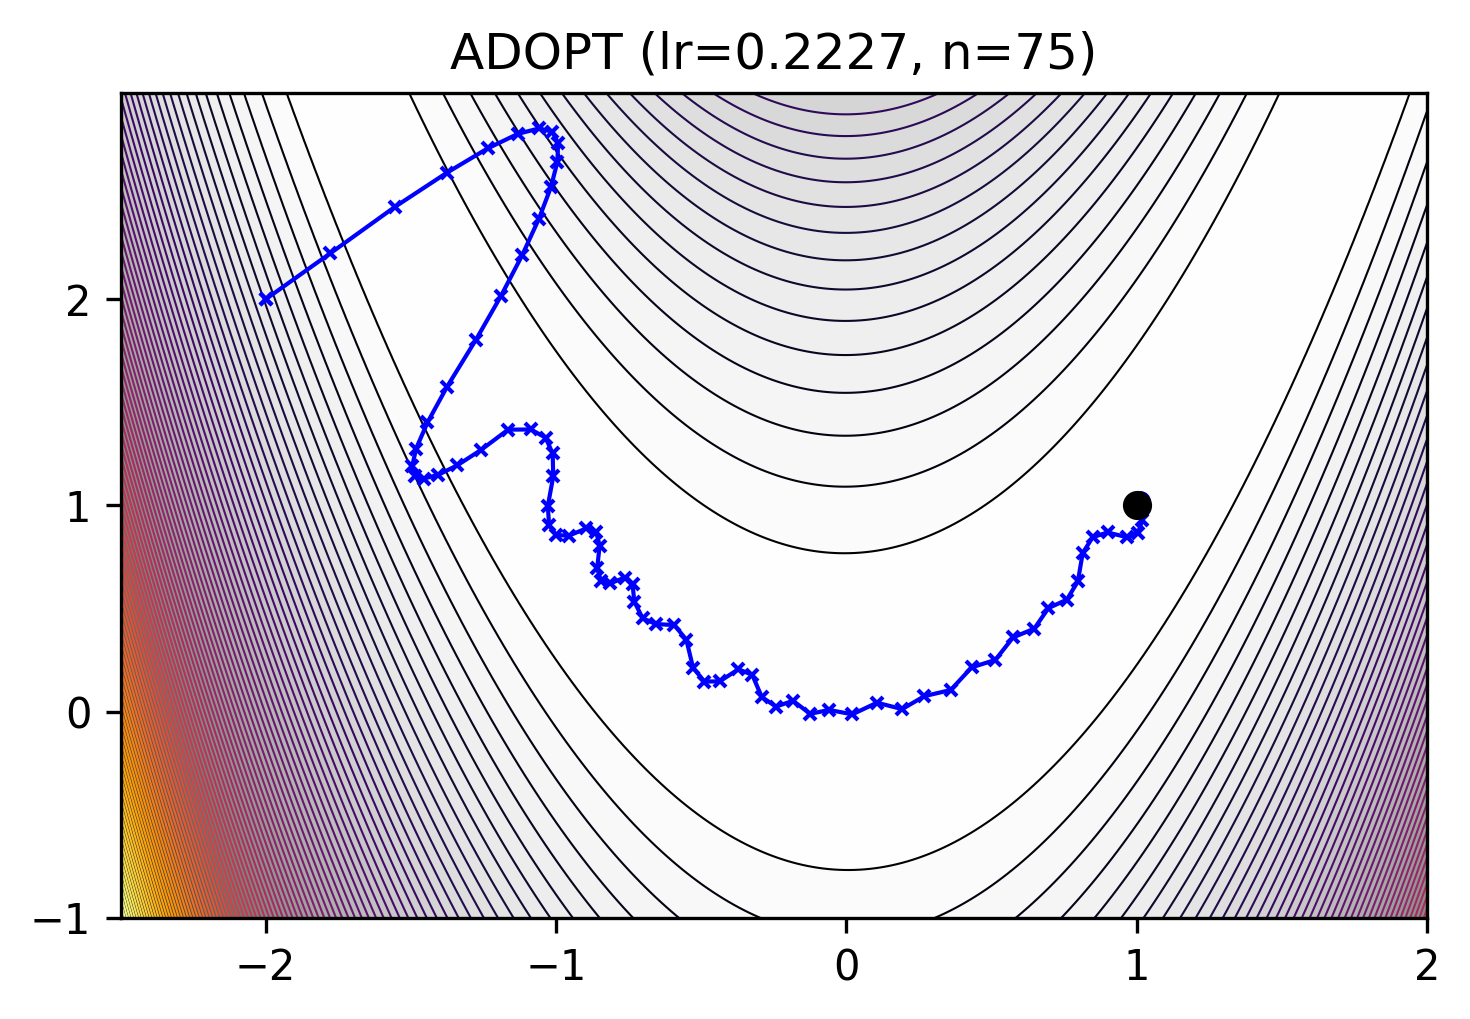
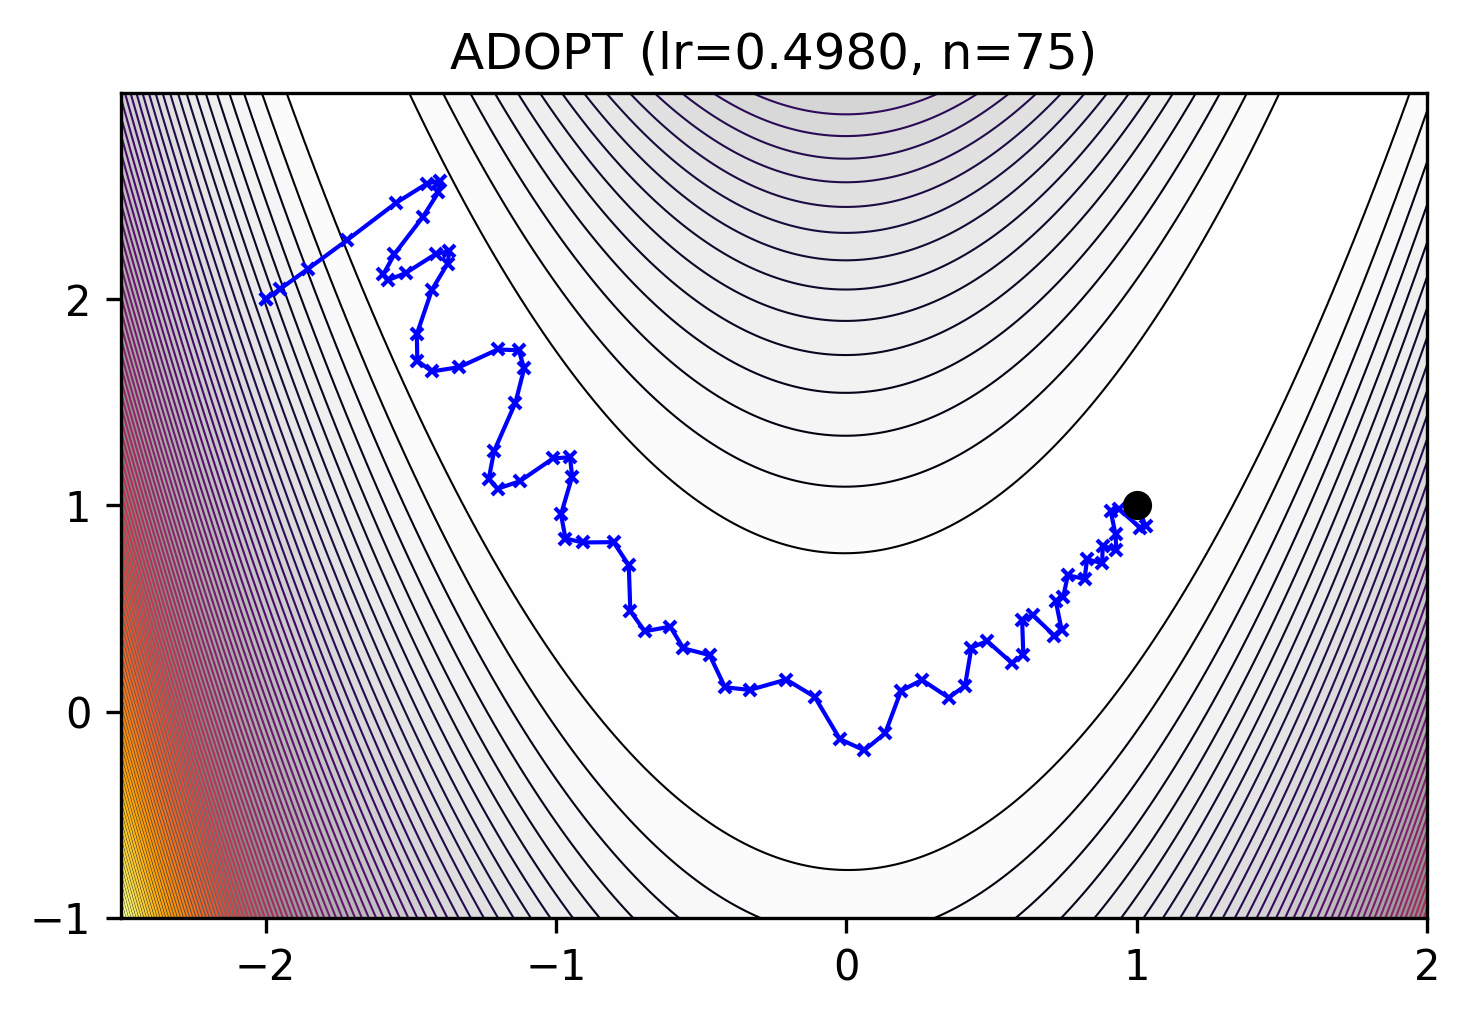
examples: rosenbrock run with adopt

Changed region(s): [[0.2143, 0.1217, 0.7959, 0.7605], [0.5204, 0.0304, 0.6122, 0.0913], [0.3367, 0.213, 0.3673, 0.3042]]

diff --git a/examples/rosenbrock.py b/examples/rosenbrock.py
@@ -117,7 +117,7 @@ if __name__ == "__main__":
         (optim.QHAdam, 0, 0.5, {}),
         (optim.DiffGrad, 0, 0.5, {}),
         (optim.MADGRAD, 0, 0.5, {}),
-        (optim.ADOPT, 0, 0.25, {}),
+        (optim.ADOPT, 0, 0.5, {}),
         (optim.Lamb, 0, 0.25, {}),
         (optim.Muon, 0, 0.2, {"alternate_optimizer": AdamW(learning_rate=0.0842)}),  # fixed lr
         (optim.Shampoo, 0, 2, {}),
